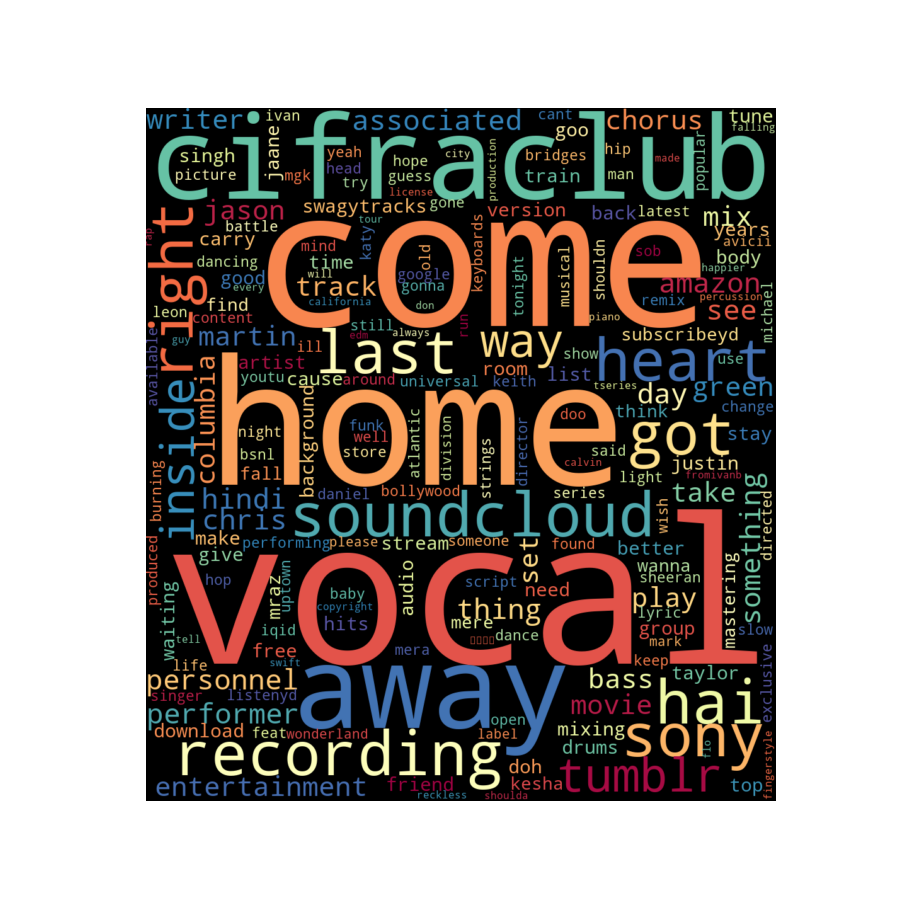
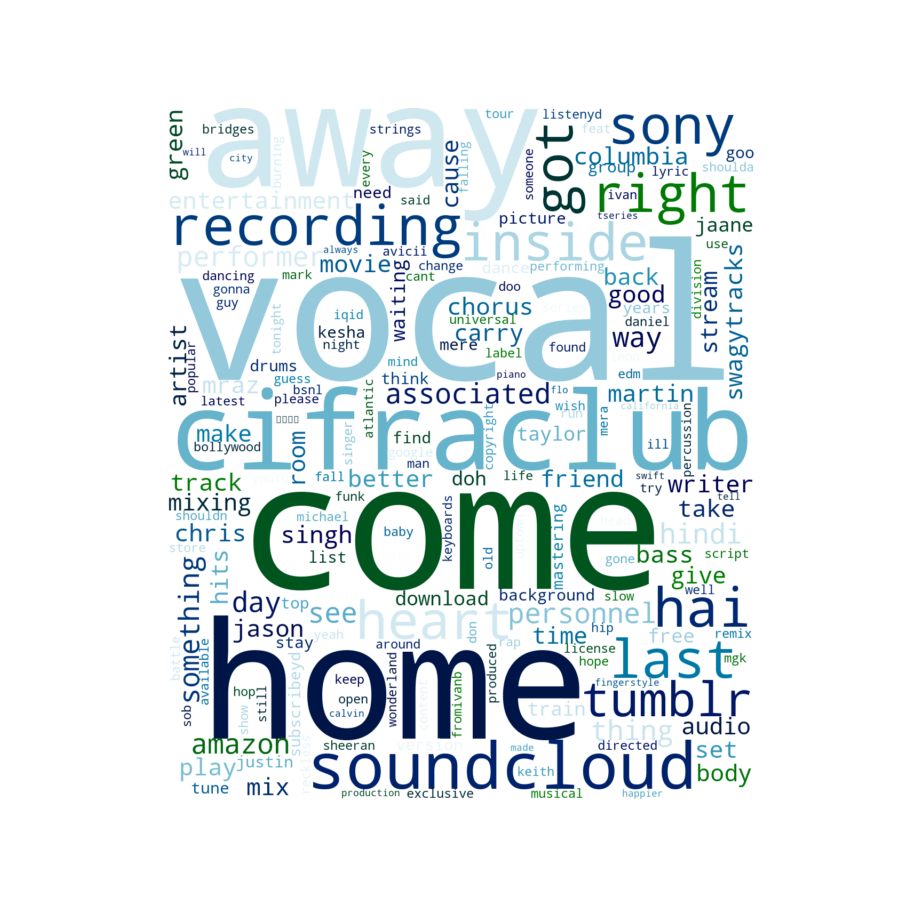
day-12. Added optimized animation gif.

diff --git a/3. animation/word_cloud.py b/3. animation/word_cloud.py
@@ -130,22 +130,23 @@ class CreateWordCloud:
         title, tag and description.
         '''
         words_clean = self.get_words_string()
-        plt.figure(figsize=(9, 9))
+        fig = plt.figure(figsize=(9,9))
+        fig.patch.set_facecolor('white')
         wc = WordCloud(
-            width=1000,
-            height=1100,
+            width=1100,
+            height=1300,
             margin=0,
             mask=None,
             max_words=190,
             min_font_size=5,
             stopwords=STOPWORDS,
             random_state=23,
-            background_color='black',
+            background_color='white',
             max_font_size=None,
             font_step=1,
             mode='RGB',
             collocations=True,
-            colormap='Spectral',
+            colormap='ocean',
             contour_width=0,
             contour_color='black',
             min_word_length=4
@@ -178,12 +179,15 @@ class CreateWordCloud:
         for word in words_count:
             words_clean_ord = (word[0]+' ')*int(word[1]) + words_clean_ord
     
-        wc_count = 10
+        wc_count = 5
         for part in range(1, wc_count):
-            plt.figure(figsize=(9, 9))
+            # plt.figure(figsize=(9, 9))
+            
+            fig = plt.figure(figsize=(9,9))
+            fig.patch.set_facecolor('white')
             wc = WordCloud(
-                width=1000,
-                height=1100,
+                width=1100,
+                height=1300,
                 margin=0,
                 mask=None,
                 scale=1,
@@ -191,12 +195,12 @@ class CreateWordCloud:
                 min_font_size=5,
                 stopwords=STOPWORDS,
                 random_state=15,
-                background_color='black',
+                background_color='white',
                 max_font_size=None,
                 font_step=1,
                 mode='RGB',
                 collocations=True,
-                colormap='Spectral',
+                colormap='ocean',
                 contour_width=0,
                 contour_color='black',
                 min_word_length=3
@@ -237,7 +241,7 @@ class CreateWordCloud:
         #     for filename in images:
         #         image = imageio.imread(filename)
         #         writer.append_data(image)
-        imageio.mimwrite('FinalWordCloud_Anim_medium.gif', image_list, loop=2, fps=120, duration=0.35)
+        imageio.mimwrite('FinalWordCloud_Anim_medium.gif', image_list, loop=2, fps=120, duration=0.3)
 
 ############################
 
